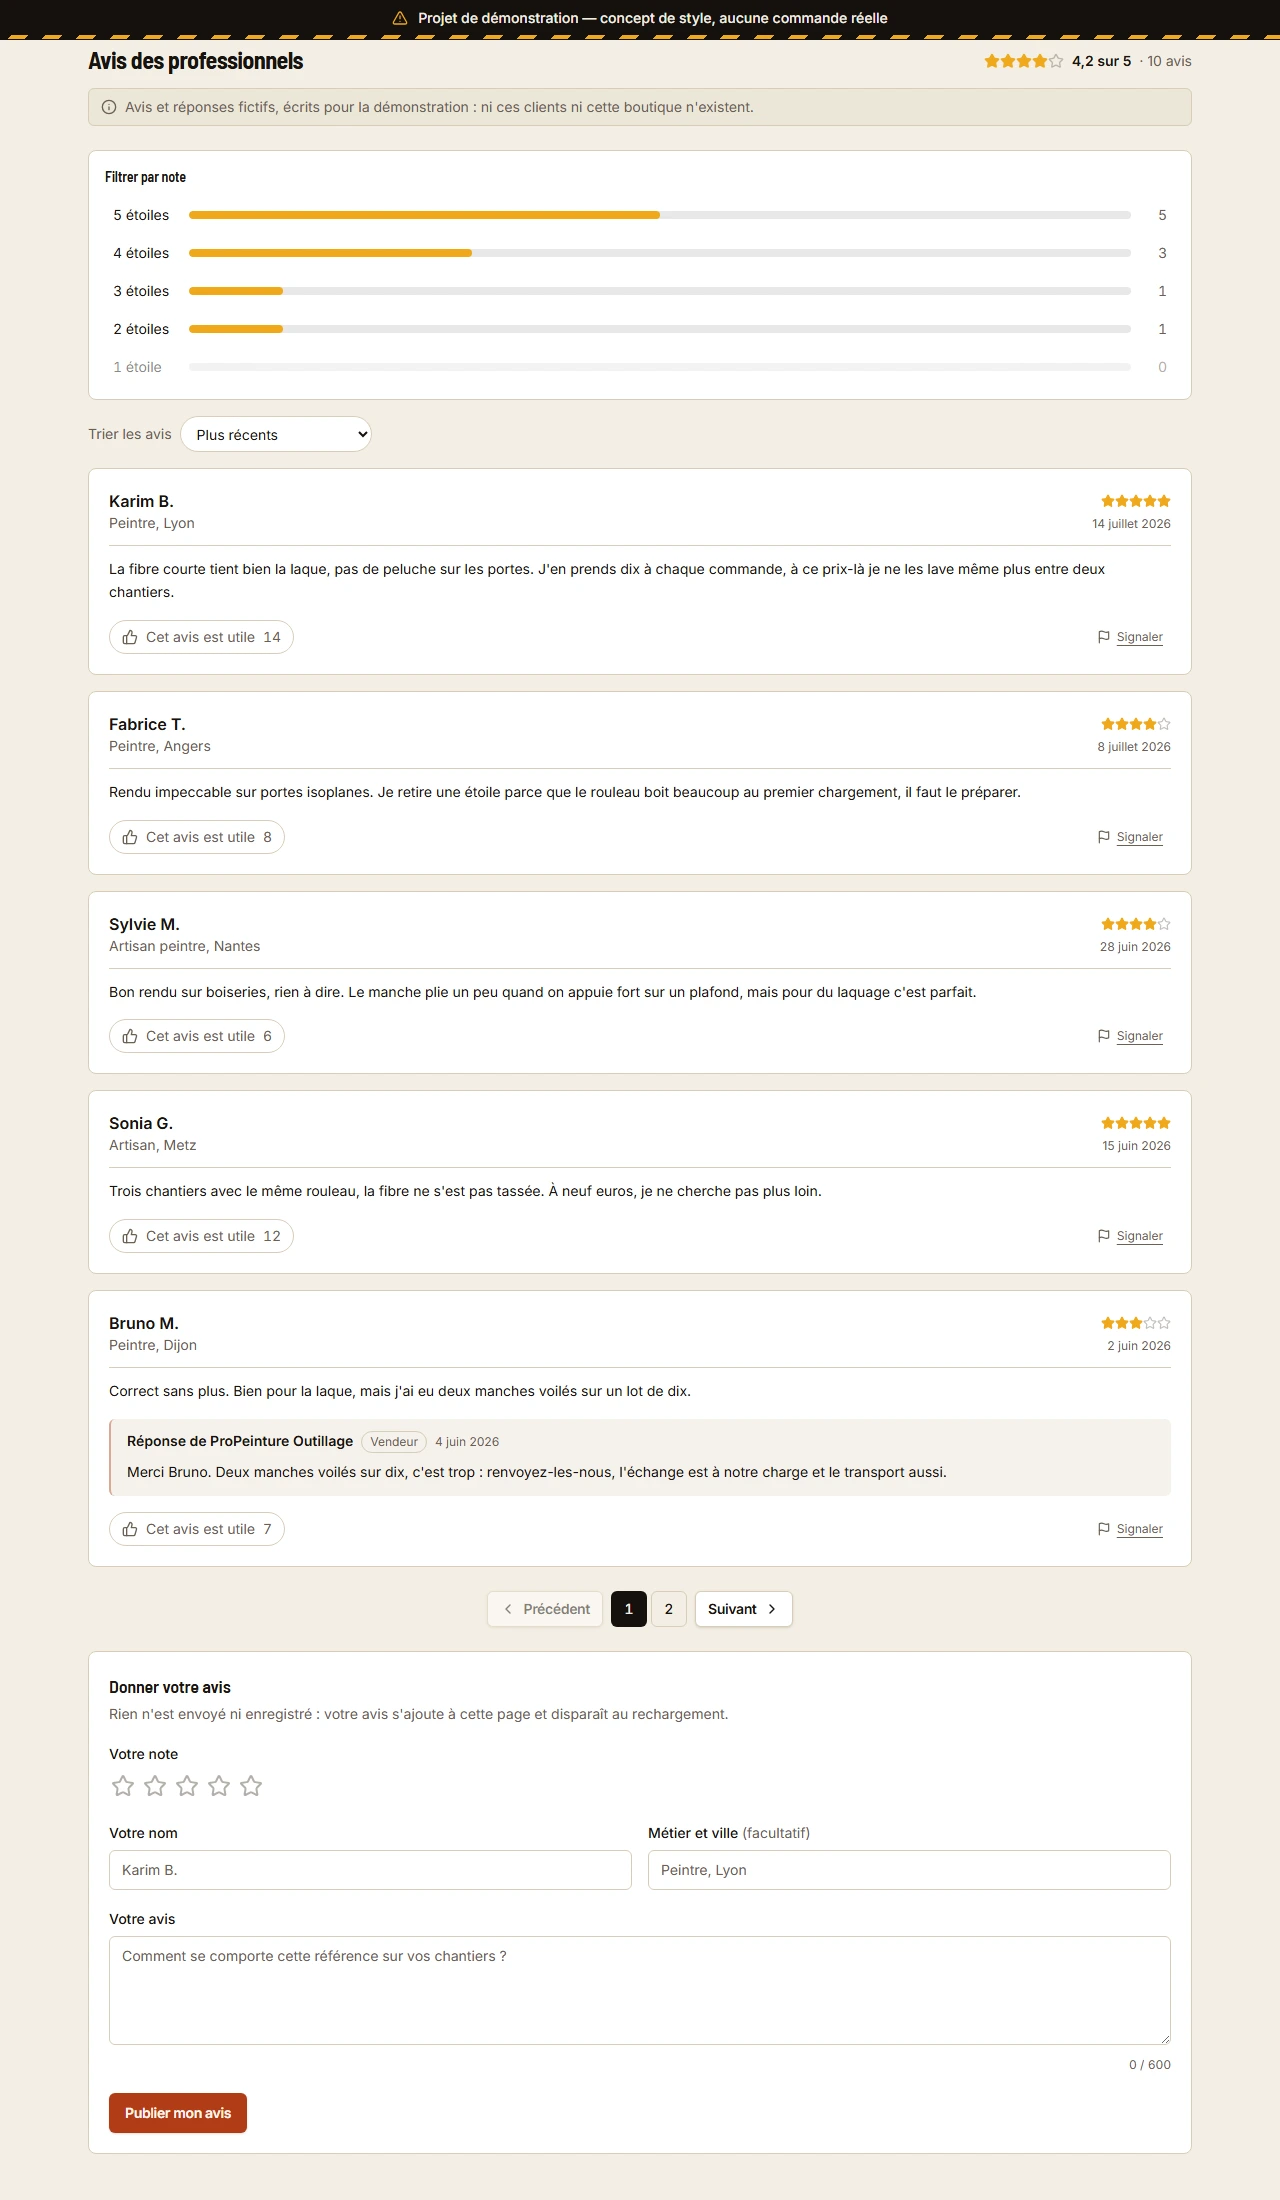
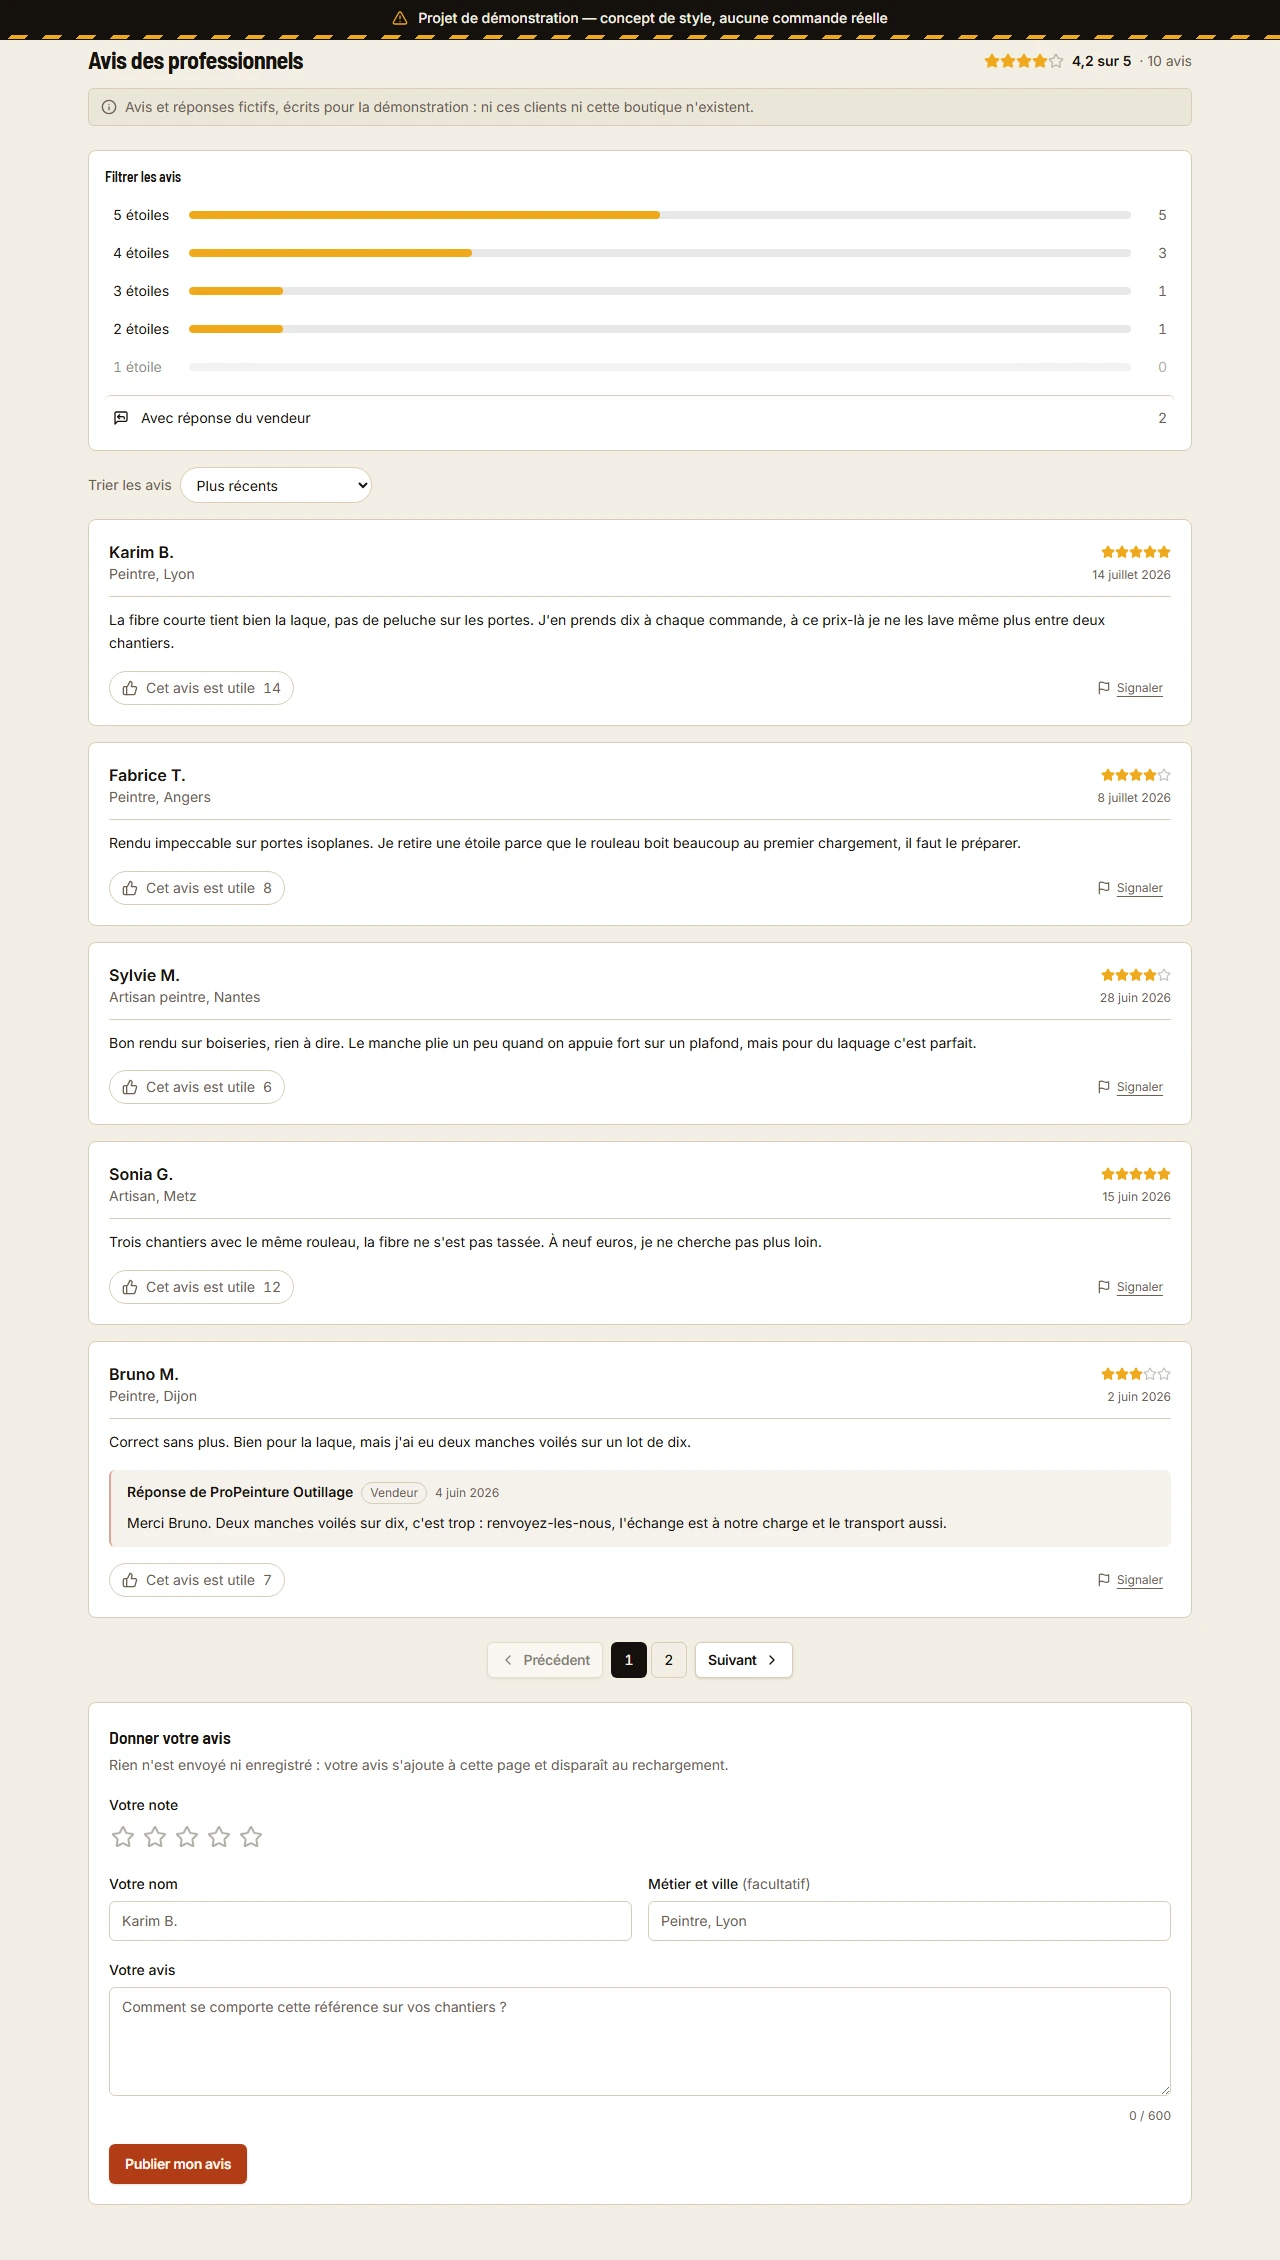
Ajoute un filtre sur les avis auxquels la boutique a répondu
Il se cumule avec le filtre par note, et leur croisement peut être vide :
la liste sans résultat devient un état affiché, avec le lien qui lève les
deux filtres. Le panneau s'intitule maintenant « Filtrer les avis ».

Les compteurs de l'histogramme restent ceux de l'ensemble, comme la
moyenne au-dessus : ils décrivent la référence, pas la sélection.

diff --git a/src/components/sections/AvisClients.tsx b/src/components/sections/AvisClients.tsx
@@ -5,6 +5,7 @@ import {
   Flag,
   Info,
   MessageSquareOff,
+  MessageSquareReply,
   ThumbsUp,
 } from "lucide-react"
 
@@ -89,6 +90,8 @@ export function AvisClients({
   const [tri, setTri] = React.useState<TriAvis>("recent")
   /** Note sélectionnée dans l'histogramme, `null` quand tout est affiché. */
   const [filtreNote, setFiltreNote] = React.useState<number | null>(null)
+  /** Ne garder que les avis auxquels la boutique a répondu. */
+  const [avecReponse, setAvecReponse] = React.useState(false)
   /** Avis que le visiteur a marqués utiles. Rien n'est envoyé, comme le reste. */
   const [votes, setVotes] = React.useState<ReadonlySet<string>>(new Set())
   /** Avis signalés. Aucune modération derrière : la page le dit à l'écran. */
@@ -134,10 +137,23 @@ export function AvisClients({
     nombre: tous.filter((a) => a.note === note).length,
   }))
 
-  const filtres = filtreNote
-    ? tous.filter((a) => a.note === filtreNote)
-    : tous
+  const nombreReponses = tous.filter((a) => a.reponse).length
+  const filtreActif = filtreNote !== null || avecReponse
+  // Les deux critères se cumulent, et leur croisement peut ne rien donner :
+  // la liste vide est un état à afficher, pas un cas impossible.
+  const filtres = tous.filter(
+    (a) =>
+      (filtreNote === null || a.note === filtreNote) &&
+      (!avecReponse || a.reponse),
+  )
   const liste = trier(filtres, tri, utilite)
+
+  /** Repart d'une liste entière, quel que soit le critère qui la réduisait. */
+  function toutAfficher() {
+    setFiltreNote(null)
+    setAvecReponse(false)
+    setPage(1)
+  }
 
   const pages = Math.max(1, Math.ceil(liste.length / PAR_PAGE))
   /*
@@ -181,7 +197,7 @@ export function AvisClients({
 
       {tous.length > 0 && (
         <div className="mt-6 rounded-lg border border-border bg-card p-4">
-          <h3 className="text-sm font-semibold">Filtrer par note</h3>
+          <h3 className="text-sm font-semibold">Filtrer les avis</h3>
           <ul className="mt-3 flex flex-col gap-1.5">
             {distribution.map(({ note, nombre }) => {
               const actif = filtreNote === note
@@ -227,7 +243,29 @@ export function AvisClients({
             })}
           </ul>
 
-          {filtreNote !== null && (
+          {/* Absente des fiches sans réponse : elle n'y filtrerait rien. */}
+          {nombreReponses > 0 && (
+            <button
+              type="button"
+              onClick={() => {
+                setAvecReponse(!avecReponse)
+                setPage(1)
+              }}
+              aria-pressed={avecReponse}
+              className={cn(
+                "mt-3 flex w-full items-center gap-3 rounded-md border-t border-border px-2 pb-1.5 pt-3 text-left text-sm transition-colors hover:bg-muted",
+                avecReponse && "bg-muted",
+              )}
+            >
+              <MessageSquareReply className="size-4 shrink-0" aria-hidden="true" />
+              <span className="flex-1">Avec réponse du vendeur</span>
+              <span className="w-6 shrink-0 text-right tabular-nums text-muted-foreground">
+                {nombreReponses}
+              </span>
+            </button>
+          )}
+
+          {filtreActif && (
             <p className="mt-3 flex flex-wrap items-center gap-2 border-t border-border pt-3 text-sm text-muted-foreground">
               <span aria-live="polite">
                 {liste.length} avis sur {tous.length} affiché
@@ -235,10 +273,7 @@ export function AvisClients({
               </span>
               <button
                 type="button"
-                onClick={() => {
-                  setFiltreNote(null)
-                  setPage(1)
-                }}
+                onClick={toutAfficher}
                 className="font-medium text-primary underline underline-offset-4"
               >
                 Voir tous les avis
@@ -277,6 +312,20 @@ export function AvisClients({
         <p className="mt-6 flex items-center gap-2 rounded-lg border border-border bg-card px-5 py-8 text-sm text-muted-foreground">
           <MessageSquareOff className="size-4 shrink-0" aria-hidden="true" />
           Cette référence n'a pas encore d'avis.
+        </p>
+      ) : liste.length === 0 ? (
+        // Possible depuis que deux critères se croisent : une note sur
+        // laquelle la boutique n'a jamais répondu ne donne aucun avis.
+        <p className="mt-6 flex flex-wrap items-center gap-2 rounded-lg border border-border bg-card px-5 py-8 text-sm text-muted-foreground">
+          <MessageSquareOff className="size-4 shrink-0" aria-hidden="true" />
+          Aucun avis ne correspond à ces filtres.
+          <button
+            type="button"
+            onClick={toutAfficher}
+            className="font-medium text-primary underline underline-offset-4"
+          >
+            Voir tous les avis
+          </button>
         </p>
       ) : (
         <>
@@ -464,9 +513,10 @@ export function AvisClients({
 
       <FormulaireAvis
         onAjout={(nouveau) => {
-          // Sans ça, un avis déposé avec une autre note serait invisible :
-          // il tomberait hors du filtre actif.
+          // Sans ça, un avis déposé serait invisible : il tomberait hors du
+          // filtre par note, et il n'a évidemment pas de réponse du vendeur.
           setFiltreNote(null)
+          setAvecReponse(false)
           // Même raison : il est daté d'aujourd'hui, donc dernier de la liste
           // sous « Plus anciens » et introuvable sous les tris par note.
           setTri("recent")

diff --git a/README.md b/README.md
@@ -27,9 +27,9 @@ La fiche produit, atteinte en cliquant une carte. Elle décline le prix unitaire
 
 ![Section avis : moyenne en étoiles, mention d'avis fictifs, histogramme filtrant, sélecteur de tri, cinq avis avec boutons d'utilité et de signalement dont un suivi d'une réponse du vendeur, pagination et formulaire de dépôt](docs/captures/09-avis.webp)
 
-Les avis, en bas de fiche : histogramme des notes qui sert de filtre, tri,
-liste avec boutons d'utilité et de signalement, réponses du vendeur,
-pagination et formulaire de dépôt. La mention d'avis fictifs est en clair
+Les avis, en bas de fiche : panneau de filtres — histogramme des notes et
+avis répondus —, tri, liste avec boutons d'utilité et de signalement,
+réponses du vendeur, pagination et formulaire de dépôt. La mention d'avis fictifs est en clair
 au-dessus, et le formulaire annonce avant la saisie que rien n'est envoyé.
 
 ![Panneau panier ouvert : deux lignes avec photo et sélecteur de quantité, jauge vers le palier suivant, remise artisan appliquée au total](docs/captures/05-panier.webp)
@@ -163,8 +163,14 @@ Un histogramme des notes sert aussi de filtre : chaque barre montre combien
 d'avis portent cette note et s'active au clic, un second clic la désactivant —
 pas besoin d'un bouton « tout » à côté. Les notes sans avis sont désactivées,
 et déposer un avis lève le filtre en cours, sans quoi le nouvel avis serait
-invisible s'il tombait hors du filtre. Déposer remet aussi le tri sur « Plus
-récents », pour la même raison : daté du jour, l'avis serait dernier sous
+invisible s'il tombait hors du filtre. Une bascule « Avec réponse du vendeur »
+complète le panneau, absente des fiches où personne n'a répondu. Les deux
+critères se cumulent, et leur croisement peut ne rien donner : une note sur
+laquelle la boutique n'a jamais répondu affiche alors « Aucun avis ne
+correspond à ces filtres » et le lien qui les lève. Les compteurs de
+l'histogramme restent ceux de l'ensemble, comme la moyenne au-dessus : ils
+décrivent la référence, pas la sélection en cours. Déposer remet aussi le tri
+sur « Plus récents », pour la même raison : daté du jour, l'avis serait dernier sous
 « Plus anciens » et perdu au milieu sous un tri par note. La moyenne et le
 total en tête portent toujours sur l'ensemble : ils doivent parler du même lot.
 
